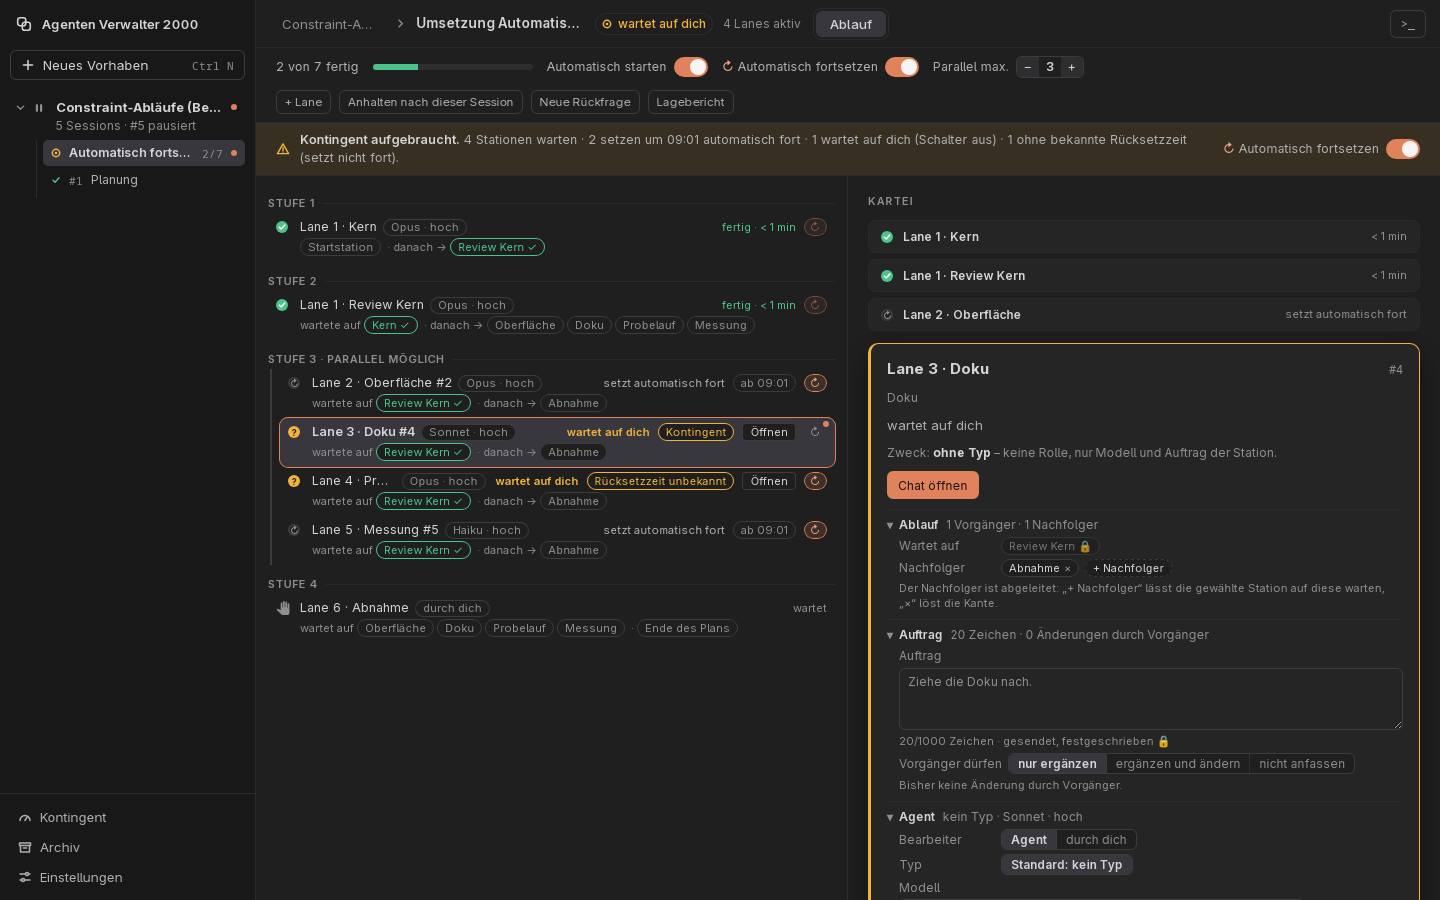
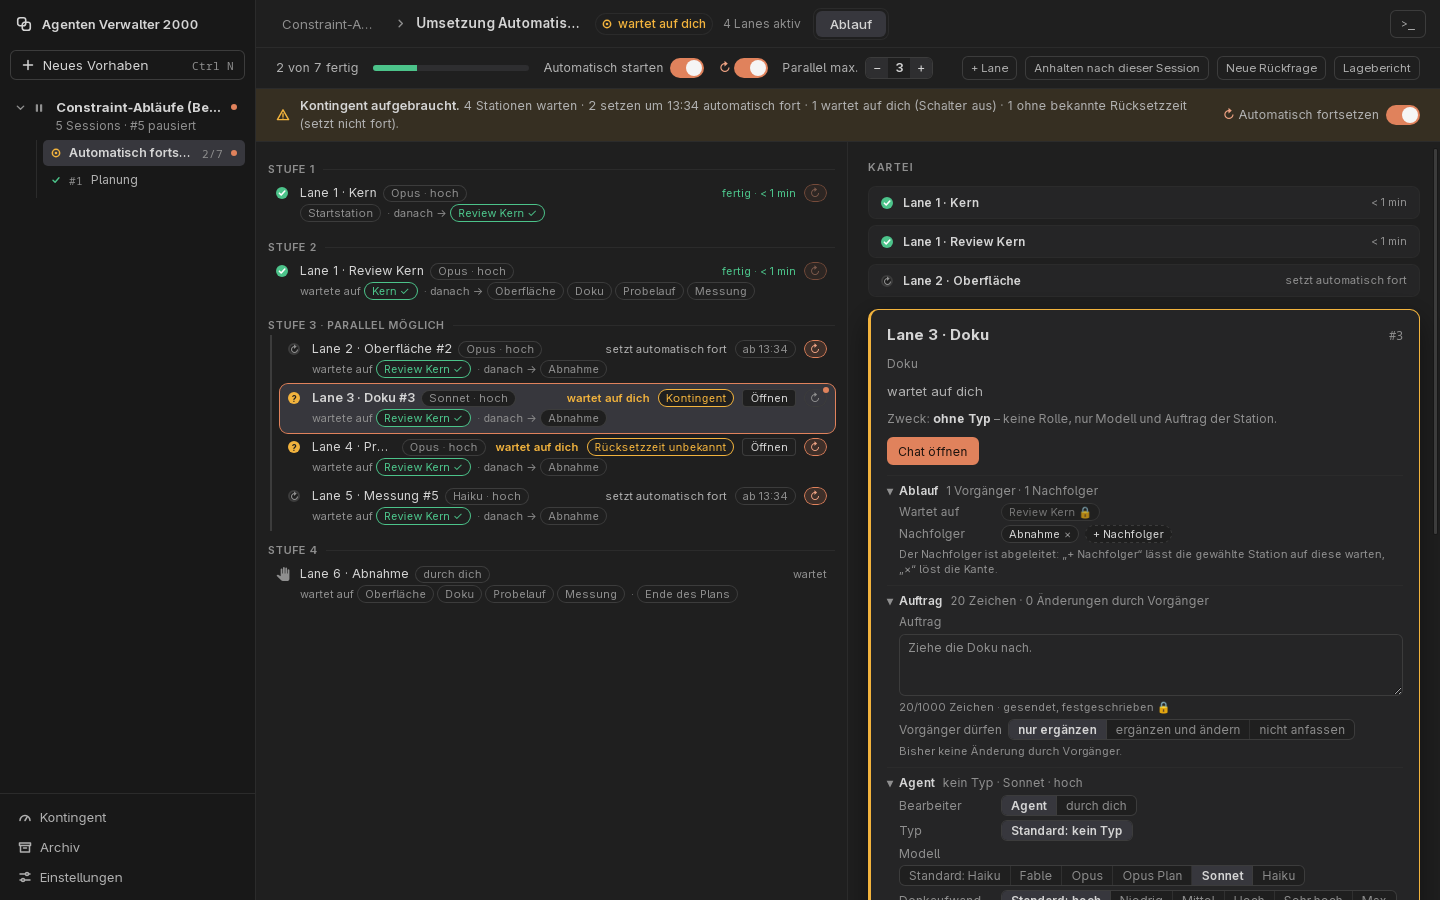
fix(implementation): Leiste bleibt mit dem Fortsetzen-Schalter einzeilig
In der Leiste stehen nur noch ↻ und der Schalter, der Name ist Tooltip
und aria-label; der Fortschrittsbalken wächst von 60 bis 160 Pixel statt
fest 160. Die Warnleiste nennt nur noch kommende Rücksetzzeiten, sonst
„setzen gleich fort“. Neue Selbsttest-Fälle für quotaPauses, die Grenze
„genau jetzt“ und vergangene Zeiten. Leisten-Bilder neu aufgenommen,
README des Entwurfs und ADR 064 nachgezogen.

diff --git a/src/features/implementation/quotaWaiting.ts b/src/features/implementation/quotaWaiting.ts
@@ -1,9 +1,8 @@
 // Zählung der Warnleiste „Kontingent aufgebraucht“ (ADR 064). Nur Typimporte: `pnpm selftest` lässt die
 // Datei von `node` laufen, das nur Typen streicht.
-import type { ImplementationView } from '@/lib/bindings/ImplementationView';
 import type { PauseReason } from '@/lib/bindings/PauseReason';
-import type { PhaseView } from '@/lib/bindings/PhaseView';
 import type { SessionSummary } from '@/lib/bindings/SessionSummary';
+import type { StationView } from '@/lib/bindings/StationView';
 
 /** Eine Station, deren Session am Kontingent pausiert. */
 export interface QuotaPause {
@@ -24,21 +23,27 @@ export interface QuotaWaiting {
   waitsForYou: number;
   /** Davon ohne bekannte Rücksetzzeit. */
   unknownReset: number;
-  /** Früheste Rücksetzzeit der fortsetzenden Stationen; `null`, wenn keine fortsetzt. */
+  /** Früheste noch kommende Rücksetzzeit der fortsetzenden Stationen; `null`, wenn keine mehr kommt. */
   resumesAt: number | null;
   /** Jede bekannte Rücksetzzeit liegt hinter `now`. */
   isReset: boolean;
 }
 
+/** Was `quotaPauses` von einer Station und einer Session liest. */
+type StationRef = Pick<StationView, 'sessionId' | 'state'>;
+type SessionRef = Pick<SessionSummary, 'id' | 'pauseReason'>;
+
 /** Die Stationen einer Umsetzung, deren Session am Kontingent pausiert. */
 export function quotaPauses(
-  implementation: ImplementationView,
-  sessions: readonly SessionSummary[],
+  implementation: { phases: readonly { stations: readonly StationRef[] }[] },
+  sessions: readonly SessionRef[],
 ): QuotaPause[] {
   const pauses: QuotaPause[] = [];
-  for (const station of implementation.phases.flatMap((phase: PhaseView) => phase.stations)) {
+  for (const station of implementation.phases.flatMap(
+    (phase: { stations: readonly StationRef[] }) => phase.stations,
+  )) {
     const reason: PauseReason | null | undefined = sessions.find(
-      (session: SessionSummary) => session.id === station.sessionId,
+      (session: SessionRef) => session.id === station.sessionId,
     )?.pauseReason;
     if (reason?.kind === 'quota') {
       pauses.push({
@@ -64,13 +69,14 @@ export function quotaWaiting(pauses: readonly QuotaPause[], now: number): QuotaW
     .filter((pause: QuotaPause) => pause.autoResume)
     .map((pause: QuotaPause) => pause.resetsAt)
     .filter((at: number | null): at is number => at !== null);
+  const coming: number[] = resumingAt.filter((at: number) => at > now);
   return {
     waiting: open.length,
     resuming: resumingAt.length,
     waitsForYou: open.filter((pause: QuotaPause) => !pause.autoResume && pause.resetsAt !== null)
       .length,
     unknownReset: open.length - known.length,
-    resumesAt: resumingAt.length === 0 ? null : Math.min(...resumingAt),
+    resumesAt: coming.length === 0 ? null : Math.min(...coming),
     isReset: known.length > 0 && known.every((at: number) => at <= now),
   };
 }

diff --git a/src/features/implementation/implementationGraph.selftest.ts b/src/features/implementation/implementationGraph.selftest.ts
@@ -10,7 +10,8 @@ import {
   patchEdit,
   type PlanNode,
 } from './implementationGraph.ts';
-import { quotaWaiting, type QuotaPause } from './quotaWaiting.ts';
+import type { PauseReason } from '../../lib/bindings/PauseReason.ts';
+import { quotaPauses, quotaWaiting, type QuotaPause } from './quotaWaiting.ts';
 
 function node(planId: string, ...after: string[]): PlanNode {
   return { planId, after };
@@ -21,6 +22,39 @@ const HOUR = 3_600_000;
 
 function pause(resetsAt: number | null, autoResume: boolean, isDone: boolean = false): QuotaPause {
   return { isDone, resetsAt, autoResume };
+}
+
+/** Umsetzung mit drei Stationen am Kontingent (eine fertig) und einer laufenden. */
+function pausesOfImplementation(): string {
+  const quota: PauseReason = { kind: 'quota', resetsAt: NOW + HOUR, autoResume: true };
+  return JSON.stringify(
+    quotaPauses(
+      {
+        phases: [
+          {
+            stations: [
+              { sessionId: 's1', state: 'waitsForQuota' },
+              { sessionId: null, state: 'pending' },
+            ],
+          },
+          {
+            stations: [
+              { sessionId: 's2', state: 'done' },
+              { sessionId: 's3', state: 'running' },
+              { sessionId: 's4', state: 'waitsForYou' },
+            ],
+          },
+        ],
+      },
+      [
+        { id: 's1', pauseReason: quota },
+        { id: 's2', pauseReason: quota },
+        { id: 's3', pauseReason: null },
+        { id: 's4', pauseReason: { kind: 'quota', resetsAt: null, autoResume: false } },
+        { id: 'fremd', pauseReason: quota },
+      ],
+    ),
+  );
 }
 
 function waiting(pauses: readonly QuotaPause[]): string {
@@ -140,6 +174,26 @@ const CASES: { name: string; actual: () => unknown; expected: unknown }[] = [
     name: 'reset_time_in_the_past_reads_as_reset',
     actual: () => quotaWaiting([pause(NOW - 1000, true), pause(NOW - 1000, false)], NOW)?.isReset,
     expected: true,
+  },
+  {
+    name: 'reset_time_exactly_now_reads_as_reset',
+    actual: () => quotaWaiting([pause(NOW, true)], NOW)?.isReset,
+    expected: true,
+  },
+  {
+    name: 'past_reset_times_are_not_shown_while_others_are_ahead',
+    actual: () => quotaWaiting([pause(NOW - 1000, true), pause(NOW + HOUR, true)], NOW)?.resumesAt,
+    expected: NOW + HOUR,
+  },
+  {
+    name: 'only_past_reset_times_of_resuming_stations_show_none',
+    actual: () => quotaWaiting([pause(NOW - 1000, true), pause(NOW + HOUR, false)], NOW)?.resumesAt,
+    expected: null,
+  },
+  {
+    name: 'quota_pauses_are_taken_from_the_station_sessions_and_mark_finished_ones',
+    actual: pausesOfImplementation,
+    expected: `[{"isDone":false,"resetsAt":${String(NOW + HOUR)},"autoResume":true},{"isDone":true,"resetsAt":${String(NOW + HOUR)},"autoResume":true},{"isDone":false,"resetsAt":null,"autoResume":false}]`,
   },
   {
     name: 'one_reset_time_ahead_is_not_reset_yet',

diff --git a/src/features/implementation/AutoResumeSwitch.tsx b/src/features/implementation/AutoResumeSwitch.tsx
@@ -11,6 +11,8 @@ interface AutoResumeSwitchProps {
   /** `implementation.autoResume`; der Schalter zeigt die Ansicht, die Änderung kommt per Ereignis. */
   enabled: boolean;
   isLocked: boolean;
+  /** Nur ↻ und Schalter, der Name als Tooltip und `aria-label`: so bleibt die Leiste einzeilig. */
+  isCompact?: boolean;
   onChange: (enabled: boolean) => void;
 }
 
@@ -18,6 +20,7 @@ interface AutoResumeSwitchProps {
 export function AutoResumeSwitch({
   enabled,
   isLocked,
+  isCompact = false,
   onChange,
 }: AutoResumeSwitchProps): ReactElement {
   return (
@@ -25,7 +28,7 @@ export function AutoResumeSwitch({
       <b className="auto-resume-switch__glyph" aria-hidden="true">
         {AUTO_RESUME_GLYPH}
       </b>
-      {AUTO_RESUME_LABEL}
+      {!isCompact && AUTO_RESUME_LABEL}
       <Switch
         checked={enabled}
         label={AUTO_RESUME_LABEL}

diff --git a/src/features/implementation/implementationTexts.ts b/src/features/implementation/implementationTexts.ts
@@ -80,9 +80,9 @@ export function quotaBarText(waiting: QuotaWaiting): { headline: string; detail:
     return { headline: 'Kontingent zurückgesetzt.', detail: `${parts.join(' · ')}.` };
   }
   const parts: string[] = [stations(waiting.waiting, 'Station wartet', 'Stationen warten')];
-  if (waiting.resuming > 0 && waiting.resumesAt !== null) {
+  if (waiting.resuming > 0) {
     parts.push(
-      `${stations(waiting.resuming, 'setzt', 'setzen')} um ${clockText(waiting.resumesAt)} automatisch fort`,
+      `${stations(waiting.resuming, 'setzt', 'setzen')} ${waiting.resumesAt === null ? 'gleich' : `um ${clockText(waiting.resumesAt)} automatisch`} fort`,
     );
   }
   if (waiting.waitsForYou > 0) {

diff --git a/src/features/implementation/ImplementationBar.css b/src/features/implementation/ImplementationBar.css
@@ -9,8 +9,11 @@
   color: var(--color-fg-secondary);
   font-size: var(--font-size-sm);
 
+  /* Wächst bis 160 px, bricht aber schon ab 60 px um: so passt ↻ Automatisch fortsetzen dazu,
+     ohne dass die Leiste früher zweizeilig wird. */
   &__progress {
-    width: 160px;
+    flex: 100 1 60px;
+    max-width: 160px;
     height: 6px;
     overflow: hidden;
     border-radius: var(--radius-full);
@@ -170,6 +173,7 @@
     &__progress {
       flex: 1;
       min-width: 60px;
+      max-width: none;
     }
 
     &__spacer {

diff --git a/src/features/implementation/ImplementationBar.tsx b/src/features/implementation/ImplementationBar.tsx
@@ -165,6 +165,7 @@ export function ImplementationBar({
         <AutoResumeSwitch
           enabled={implementation.autoResume}
           isLocked={isLocked}
+          isCompact
           onChange={onSetAutoResume}
         />
         <span className="implementation-bar__switch" title={MAX_PARALLEL_TITLE}>

diff --git a/docs/design/2026-11-15_automatisch-fortsetzen/README.md b/docs/design/2026-11-15_automatisch-fortsetzen/README.md
@@ -44,10 +44,10 @@
 
 Stand der Oberfläche (Phase 56.2). Die Bilder in [umsetzung/](umsetzung/) stammen aus der echten App: eigener Ordner als `HOME`, privates Display, eine Attrappe der Claude-Kommandozeile mit den Fällen `quota` und `quota-ohne-zeit`; jedes ist gegen den Mock (`#scen=qon|qoff|qmix`, hell und dunkel) verglichen. Die Klicks (↻ in der Zeile, Wahl in der Kartei, Schalter in Leiste, Warnleiste, Karte im Chat und Einstellungen) liefen dort über XTest.
 
-- **Leiste:** Die Beschriftung steht vor dem Schalter („↻ Automatisch fortsetzen“ und dann der Schalter), wie bei „Automatisch starten“ in der App; der Mock setzt den Schalter davor. Die Höhe der Leiste bleibt.
+- **Leiste:** Dort stehen nur ↻ und der Schalter; der Name „Automatisch fortsetzen“ ist Tooltip und Name für Screenreader. Mit dem ganzen Namen (wie im Mock) brach die Leiste schon bei 1440 Pixel Fensterbreite in zwei Zeilen um. Dazu ist der Fortschrittsbalken nicht mehr fest 160 Pixel breit: er wächst bis 160 Pixel, bricht aber erst unter 60 Pixel um. So bleibt die Leiste überall einzeilig, wo sie es vorher war (gemessen mit dem CSS der App von 300 bis 1300 Pixel Hauptfläche). Einzige Ausnahme ist die schmale Fassung unter 700 Pixel: bei 515 bis 575 Pixel Hauptfläche bekommt sie eine Zeile mehr, weil der Fortschrittsbalken dort schon auf seiner Mindestbreite steht. Mit „Warteschlange: N“ war die Leiste bei 1440 Pixel Fensterbreite schon vorher zweizeilig. In der Warnleiste steht der ganze Name.
 - **Zeile:** ↻ steht rechts im Zustand, neben der Mini-Aktion („Öffnen“, ▶), nicht hinter Modell und Denkaufwand: dort liegt der Titel-Knopf, und ein Knopf darf nicht in einem Knopf stehen. Mit „wartet auf dich“, dem Chip „Rücksetzzeit unbekannt“ und „Öffnen“ wird der Titel bei 1440 Pixel Fensterbreite gekürzt („Lane 4 · Pr…“).
 - **Zustand nach dem Zurücksetzen:** Der Mock zählt „setzt fort in N s“ herunter. Die App hat diesen Zustand nicht, der Zeitgeber lebt im Kern: Die Station bleibt bis zum Senden bei „setzt automatisch fort“ mit dem Chip der Rücksetzzeit, danach läuft sie.
-- **Warnleiste:** „Kontingent zurückgesetzt.“ erscheint erst, wenn jede bekannte Rücksetzzeit vorbei ist. Zwei Stationen, die zehn Sekunden auseinander ins Kontingent liefen, zeigen bis zur späteren Zeit noch „aufgebraucht“. Der Mock kennt nur eine Zeit. Nach dem Fortsetzen bleibt die Leiste mit „… warten noch auf dich“ stehen, solange eine Station am Kontingent pausiert.
+- **Warnleiste:** „Kontingent zurückgesetzt.“ erscheint erst, wenn jede bekannte Rücksetzzeit vorbei ist. Zwei Stationen, die zehn Sekunden auseinander ins Kontingent liefen, zeigen bis zur späteren Zeit noch „aufgebraucht“. Der Mock kennt nur eine Zeit. Die genannte Uhrzeit ist die früheste noch kommende; ist die Zeit einer fortsetzenden Station schon vorbei, die einer anderen aber nicht, heißt es „… setzen gleich fort“. Nach dem Fortsetzen bleibt die Leiste mit „… warten noch auf dich“ stehen, solange eine Station am Kontingent pausiert.
 - **Plätze:** In der App rückt eine bereite Station nach, sobald Stationen mit Schalter aus oder ohne Rücksetzzeit „wartet auf dich“ zeigen. Im Lauf „gemischt“ startete so „Messung“, die im Mock in der Warteschlange bleibt; im Mock warten in diesem Szenario drei Stationen automatisch.
 - **Kartei:** Die erste Wahl nennt den Wert der Umsetzung („wie Umsetzung (an)“), wie bei „Automatisch starten“; die Marke „neu“ des Mocks fehlt. Der Kopf der Kartei zeigt „setzt automatisch fort“ ohne Chip.
 - **Einstellungen:** Die Zeile hat nur Namen, ⓘ und Schalter; den Untertitel des Mocks („Standard für neue Umsetzungen …“) kennt die Einstellungszeile nicht. Der ⓘ-Text ist der des Mocks. Gesehen sind Zeile, Suche („fortsetzen“) und das Speichern (`default_auto_resume` in der Datenbank `true`, dann `false`). Das Szenario „Frisch angelegt“ ist nicht im Bild: Eine Umsetzung legt nur ein Agent über das Werkzeug an; die Übernahme prüft der Kern (ADR 064, Tests).

diff --git a/docs/decisions/064-automatisch-fortsetzen.md b/docs/decisions/064-automatisch-fortsetzen.md
@@ -31,7 +31,7 @@ Die Story (Taiga #56) verlangt einen Schalter für alle Stationen einer Umsetzun
 
 Nach dem Entwurf [`docs/design/2026-11-15_automatisch-fortsetzen/`](../design/2026-11-15_automatisch-fortsetzen/README.md); die Abweichungen stehen dort.
 
-- **Leiste:** Schalter „↻ Automatisch fortsetzen“ hinter „Automatisch starten“ (`AutoResumeSwitch`), zeigt `implementation.autoResume`, schaltet über `implementation_set_auto_resume`. Keine optimistische Anzeige: der Schalter liest die Ansicht, die Änderung kommt per `implementation://changed`.
+- **Leiste:** Schalter ↻ hinter „Automatisch starten“ (`AutoResumeSwitch`, in der Leiste ohne sichtbaren Namen, „Automatisch fortsetzen“ als Tooltip und `aria-label`, damit die Leiste einzeilig bleibt; der Fortschrittsbalken wächst dafür von 60 bis 160 Pixel statt fest 160), zeigt `implementation.autoResume`, schaltet über `implementation_set_auto_resume`. Keine optimistische Anzeige: der Schalter liest die Ansicht, die Änderung kommt per `implementation://changed`.
 - **Warnleiste** (`QuotaWaitBar`) zwischen Leiste und Fehlerzeile, außerhalb des Reiterinhalts, also unter „Ablauf“ und „Changes“: steht, solange eine nicht fertige Station mit Session am Kontingent pausiert (`pauseReason.kind === 'quota'`), und trägt denselben Schalter. Die Zahlen (wartend, fortsetzend mit frühester Rücksetzzeit, Schalter aus, ohne Rücksetzzeit, nach der Rücksetzzeit „zurückgesetzt“) rechnet die reine Funktion `quotaWaiting` mit Fällen im `pnpm selftest`. Sie liest die Begründung der Pause, die nur im Speicher lebt: nach einem Neustart der App steht sie nicht.
 - **Zeile:** ↻ als eigener Knopf rechts im Zustand, neben der Mini-Aktion und außerhalb des Titel-Knopfs (`aria-pressed` = `resumesAutomatically`, ein Punkt bei einer Abweichung von der Umsetzung, gesperrt bei fertiger Station, nicht bei Stationen „durch dich“); ein Klick schreibt `implementation_set_station_auto_resume` mit dem Gegenteil des wirksamen Werts. Der Zustand „setzt automatisch fort“ steht in neutralem Ton mit ↻ im Punkt und dem Chip „ab HH:MM“; „wartet auf dich“ am Kontingent trägt den Chip „Kontingent“ oder „Rücksetzzeit unbekannt“. `WaitsForQuota` zählt in der Oberfläche als aktiv, nicht als „braucht dich“, und tickt nicht (kein Zähler).
 - **Kartei:** Abschnitt „Automatik“ mit „wie Umsetzung · an · aus“ zwischen „Automatisch starten“ und „Bei Fehler“, änderbar bis zur Fertigmeldung, mit der Zeile „Läuft mit: … (von der Umsetzung | nur diese Station)“; die Kopfzeile und der Sperrhinweis nennen den Wert.
